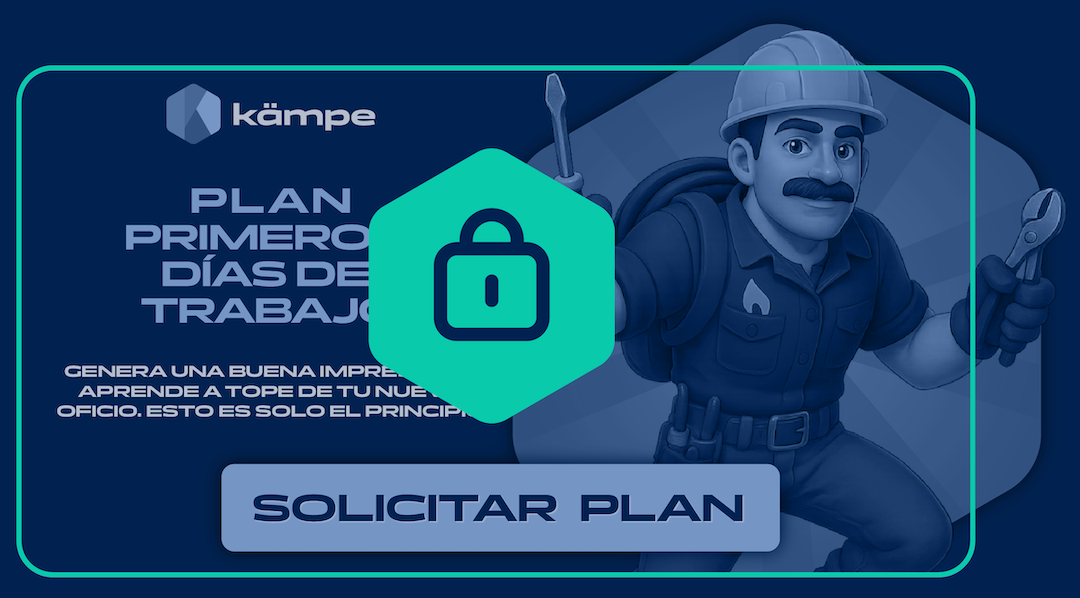
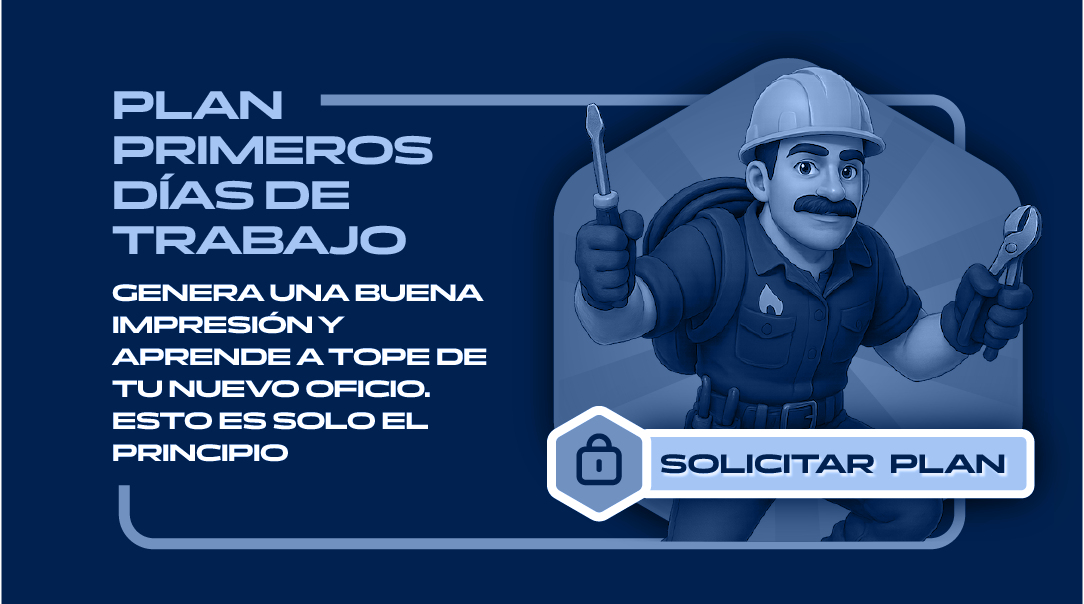
Changing lobby assets to new Gaston's proposal. Some adjusting with padding

diff --git a/code/scenes/lobby.js b/code/scenes/lobby.js
@@ -11,10 +11,10 @@ function createPassCard(scene, pass, y, container) {
 
     const progress = Math.floor((pass.tasksDone / pass.tasksMax) * 100);
 
-    const progressLabel = scene.add.text(image.x - 190, image.y + 205, `CONTINUAR PROGRESO: ${progress}%`, DETAILS_STYLE)
+    const progressLabel = scene.add.text(image.x - 225, image.y + 160, `CONTINUAR PROGRESO: ${progress}%`, DETAILS_STYLE)
     container.add(progressLabel);
 
-    const progressBar = createProgressBar(scene, image.x - 190, image.y + 240, PROGRESS_BAR_WIDTH, PROGRESS_BAR_HEIGHT, progress);
+    const progressBar = createProgressBar(scene, image.x - 225, image.y + 193, PROGRESS_BAR_WIDTH, PROGRESS_BAR_HEIGHT, progress);
     container.add(progressBar);
   } else {
     image.disableInteractive();
@@ -42,7 +42,7 @@ class LobbyScene extends Phaser.Scene {
     loadTransition(this);
 
     const container = this.add.container(0, 0);
-    const spacing = 710;
+    const spacing = LOBBY_CARD_SPACING;
     const topMargin = TITLE_SPACING;
 
     const imageTitle = this.add.image(GAME_WIDTH / 2, 250, 'lobbyTitle');
@@ -53,7 +53,7 @@ class LobbyScene extends Phaser.Scene {
       createPassCard(this, pass, y, container);
     });
 
-    enableScroll(this, container, topMargin + spacing * careerPasses.length);
+    enableScroll(this, container, topMargin + spacing * careerPasses.length - spacing / 2);
   }
 }
 

diff --git a/code/constants.js b/code/constants.js
@@ -1,6 +1,6 @@
 const GAME_WIDTH = 1080;
 const GAME_HEIGHT = 1900;
-const PROGRESS_BAR_WIDTH = 500;
+const PROGRESS_BAR_WIDTH = 460;
 const PROGRESS_BAR_HEIGHT = 16;
 const SHADOW_COLOR = '#444444';
 const FONT_TYPE = 'Panchang';
@@ -8,9 +8,10 @@ const FONT_TYPE_BOLD = 'Panchang-Semibold';
 const FADING_TIME = 150;
 const TITLE_SPACING = 780;
 const PHASE_CARD_SPACING = 720;
+const LOBBY_CARD_SPACING = 630;
 
 const DETAILS_STYLE = {
-  fontSize: '23px',
+  fontSize: '21px',
   fontFamily: FONT_TYPE_BOLD,
   color: '#003466',
   align: 'center',
